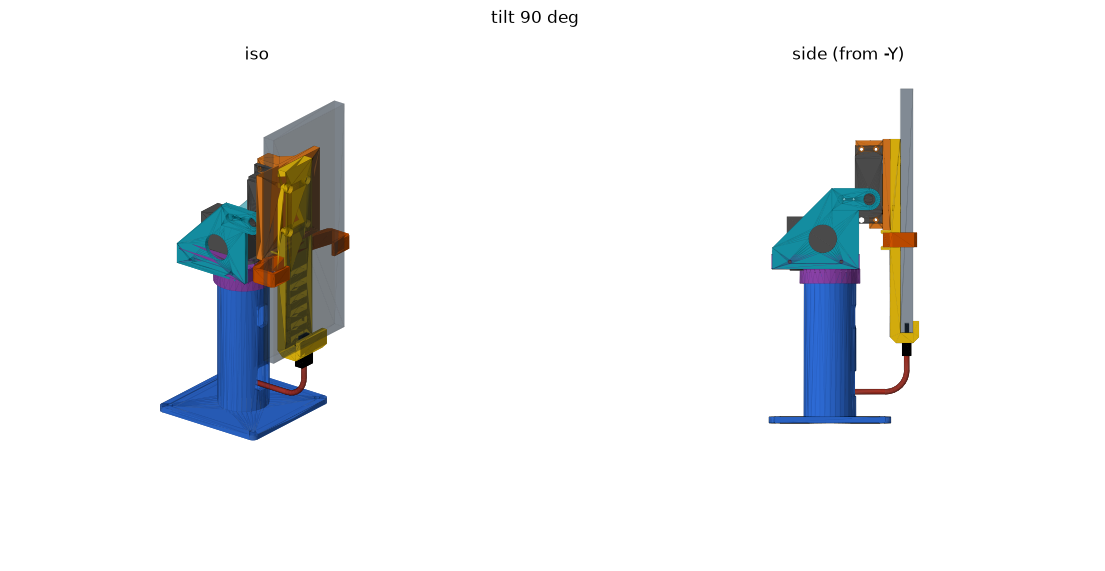
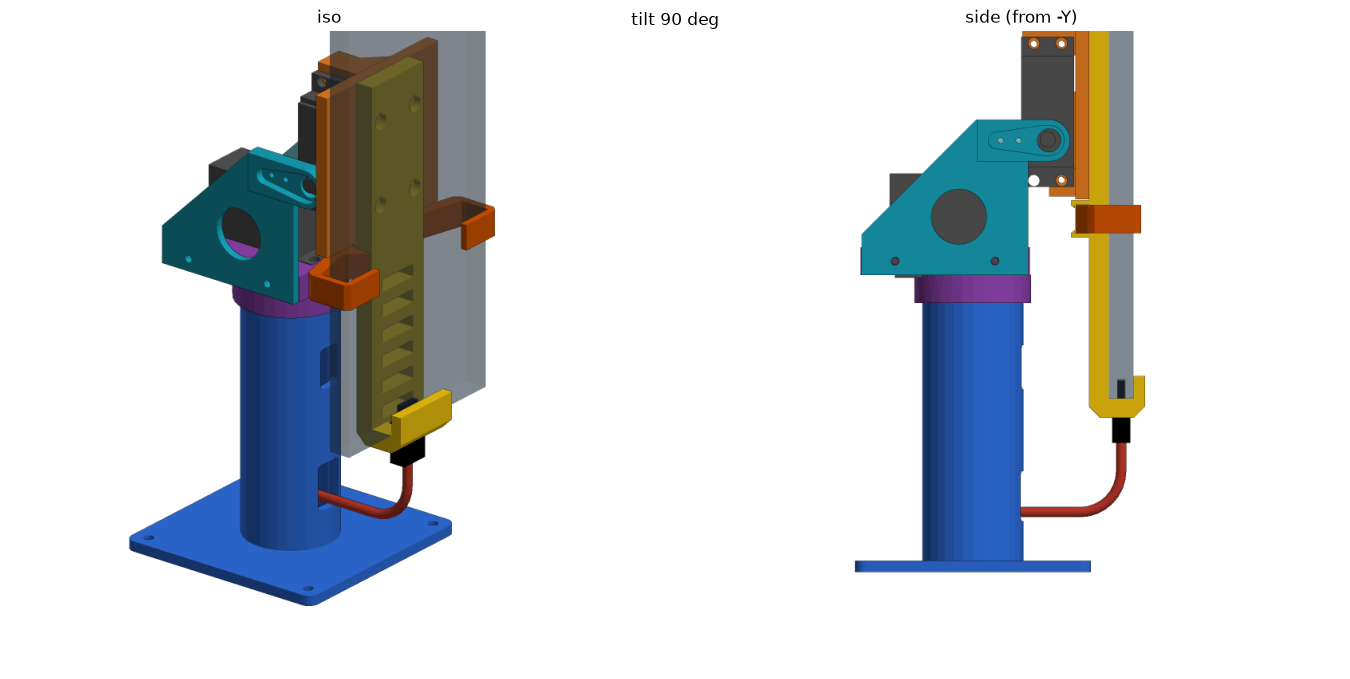
Render the documentation pictures with a z-buffer renderer
The matplotlib 3D painter sorted faces wrongly and let inner parts show through the lid. shots.py now rasterizes the
tessellated parts with its own numpy z-buffer (flat shading, outlines, translucent parts blended last), so the pictures
no longer have see-through artefacts. Pictures regenerated.

Changed region(s): [[0.0923, 0.0298, 0.3692, 0.8932], [0.6154, 0.0, 0.8615, 0.8634], [0.4308, 0.0, 0.5231, 0.0595]]

diff --git a/cadpy/shots.py b/cadpy/shots.py
@@ -1,4 +1,4 @@
-"""Render the documentation pictures into ../docs/img (matplotlib, no GPU needed).
+"""Render the documentation pictures into ../docs/img (numpy software renderer with a z-buffer, no GPU needed).
 
     .venv/bin/python shots.py
 
@@ -16,7 +16,6 @@ import numpy as np
 
 matplotlib.use("Agg")
 import matplotlib.pyplot as plt
-from mpl_toolkits.mplot3d.art3d import Poly3DCollection
 
 from palette import STYLE
 from pantilt import assemble
@@ -29,38 +28,103 @@ CENTRE = np.array([42.5, 42.5, 60.0])     # box centre in world coordinates (box
 
 
 def triangles(parts, alpha):
-    T, C, A = [], [], []
-    for name, sh in parts.items():
+    """Triangles of all parts: vertices (n,3,3), colours (n,3), opacity (n,), part id (n,)."""
+    T, C, A, I = [], [], [], []
+    for pid, (name, sh) in enumerate(parts.items()):
         v, f = sh.tessellate(0.15, 0.4)
         v = np.array([(p.X, p.Y, p.Z) for p in v])
+        f = np.array(f)
+        T.append(v[f])
         col = matplotlib.colors.to_rgb(STYLE.get(name, ("#999999", 1.0))[0])
-        a = alpha.get(name, 1.0)
-        for i, j, k in f:
-            T.append(v[[i, j, k]]); C.append(col); A.append(a)
-    return np.array(T), np.array(C), np.array(A)
+        C.append(np.tile(col, (len(f), 1))); A.append(np.full(len(f), alpha.get(name, 1.0))); I.append(np.full(len(f), pid))
+    return np.concatenate(T), np.concatenate(C), np.concatenate(A), np.concatenate(I)
+
+
+def rasterize(T, C, A, I, elev, azim, mid, radius, size=800, ss=2):
+    """Small software renderer: orthographic camera, z-buffer, flat shading, outlines, translucent parts blended last."""
+    e, a = np.radians(elev), np.radians(azim)
+    cam = np.array([np.cos(e) * np.cos(a), np.cos(e) * np.sin(a), np.sin(e)])
+    right = np.array([-np.sin(a), np.cos(a), 0.0])
+    up = np.array([-np.sin(e) * np.cos(a), -np.sin(e) * np.sin(a), np.cos(e)])
+    n = size * ss
+    scale = n / (2 * radius)
+    P = T - np.asarray(mid)
+    px = P @ right * scale + n / 2
+    py = n / 2 - P @ up * scale
+    pz = P @ cam                                   # larger = closer to the camera
+    nrm = np.cross(T[:, 1] - T[:, 0], T[:, 2] - T[:, 0])
+    nrm /= np.linalg.norm(nrm, axis=1, keepdims=True) + 1e-12
+    light = cam + 0.5 * right + 0.8 * up
+    light /= np.linalg.norm(light)
+    shade = 0.40 + 0.60 * np.abs(nrm @ light)
+    rgb = np.clip(C * shade[:, None], 0, 1)
+
+    zbuf = np.full((n, n), -1e9)
+    img = np.ones((n, n, 3))
+    ids = np.full((n, n), -1, dtype=np.int32)
+
+    def fill(k, blend=None):
+        x = px[k]; y = py[k]; z = pz[k]
+        x0, x1 = int(max(np.floor(x.min()), 0)), int(min(np.ceil(x.max()), n - 1))
+        y0, y1 = int(max(np.floor(y.min()), 0)), int(min(np.ceil(y.max()), n - 1))
+        if x1 < x0 or y1 < y0:
+            return
+        gx, gy = np.meshgrid(np.arange(x0, x1 + 1) + 0.5, np.arange(y0, y1 + 1) + 0.5)
+        d = (y[1] - y[2]) * (x[0] - x[2]) + (x[2] - x[1]) * (y[0] - y[2])
+        if abs(d) < 1e-12:
+            return
+        w0 = ((y[1] - y[2]) * (gx - x[2]) + (x[2] - x[1]) * (gy - y[2])) / d
+        w1 = ((y[2] - y[0]) * (gx - x[2]) + (x[0] - x[2]) * (gy - y[2])) / d
+        w2 = 1 - w0 - w1
+        inside = (w0 >= -1e-6) & (w1 >= -1e-6) & (w2 >= -1e-6)
+        if not inside.any():
+            return
+        zz = w0 * z[0] + w1 * z[1] + w2 * z[2]
+        sl = (slice(y0, y1 + 1), slice(x0, x1 + 1))
+        if blend is None:
+            ok = inside & (zz > zbuf[sl])
+            zbuf[sl][ok] = zz[ok]
+            img[sl][ok] = rgb[k]
+            ids[sl][ok] = I[k]
+        else:
+            ok = inside & (zz > zbuf[sl])          # in front of everything opaque, no depth write
+            img[sl][ok] = img[sl][ok] * (1 - blend) + rgb[k] * blend
+
+    opaque = np.nonzero(A >= 0.999)[0]
+    for k in opaque:
+        fill(k)
+    # outlines from the id buffer and depth jumps (before translucent parts, so glass has no hard edges)
+    edge = np.zeros((n, n), dtype=bool)
+    for dy, dx in ((1, 0), (0, 1)):
+        edge[:-dy or None, :-dx or None] |= ids[:-dy or None, :-dx or None] != ids[dy:, dx:]
+        edge[:-dy or None, :-dx or None] |= np.abs(zbuf[:-dy or None, :-dx or None] - zbuf[dy:, dx:]) > radius * 0.02
+    img[edge] = img[edge] * 0.35
+    glass = np.nonzero(A < 0.999)[0]
+    glass = glass[np.argsort(pz[glass].mean(axis=1))]   # far to near
+    for k in glass:
+        fill(k, blend=A[k])
+    # downsample
+    img = img.reshape(size, ss, size, ss, 3).mean(axis=(1, 3))
+    return np.clip(img, 0, 1)
 
 
 def draw(parts, views, out, mid, radius, alpha=None, title=""):
-    T, C, A = triangles(parts, alpha or {})
+    T, C, A, I = triangles(parts, alpha or {})
+    rx, ry, rz = (radius, radius, radius) if np.isscalar(radius) else radius
+    rad = max(rx, ry, rz)
     cols = 2 if len(views) > 1 else 1
     rows = -(-len(views) // cols)
-    fig = plt.figure(figsize=(7 * cols, 7 * rows), dpi=100)
-    for idx, (caption, elev, azim) in enumerate(views, 1):
-        ax = fig.add_subplot(rows, cols, idx, projection="3d", proj_type="ortho")
-        a = np.radians(azim); e = np.radians(elev)
-        light = np.array([np.cos(e) * np.cos(a - .6), np.cos(e) * np.sin(a - .6), np.sin(e) + .4]); light /= np.linalg.norm(light)
-        n = np.cross(T[:, 1] - T[:, 0], T[:, 2] - T[:, 0]); n /= np.linalg.norm(n, axis=1, keepdims=True) + 1e-12
-        k = 0.45 + 0.55 * np.abs(n @ light)
-        rgba = np.concatenate([np.clip(C * k[:, None], 0, 1), A[:, None]], axis=1)
-        ax.add_collection3d(Poly3DCollection(T, facecolors=rgba, edgecolor=(0, 0, 0, .10), linewidths=.15))
-        rx, ry, rz = (radius, radius, radius) if np.isscalar(radius) else radius
-        ax.set_xlim(mid[0] - rx, mid[0] + rx); ax.set_ylim(mid[1] - ry, mid[1] + ry)
-        ax.set_zlim(mid[2] - rz, mid[2] + rz)
-        ax.set_box_aspect((rx, ry, rz)); ax.view_init(elev, azim); ax.set_axis_off(); ax.set_title(caption)
+    fig, axes = plt.subplots(rows, cols, figsize=(7 * cols, 7 * rows), dpi=100, squeeze=False)
+    for ax in axes.flat:
+        ax.axis("off")
+    for ax, (caption, elev, azim) in zip(axes.flat, views):
+        ax.imshow(rasterize(T, C, A, I, elev, azim, mid, rad))
+        ax.set_title(caption)
     if title:
-        fig.suptitle(title, y=.93)
+        fig.suptitle(title, y=.96)
+    fig.tight_layout()
     fig.savefig(out, bbox_inches="tight"); plt.close(fig)
-    print(out.name, out.stat().st_size // 1024, "KB")
+    print(out.name, out.stat().st_size // 1024, "KB", flush=True)
 
 
 def pick(parts, names):
@@ -71,7 +135,7 @@ if __name__ == "__main__":
     p = assemble(tilt_deg=90, pan_deg=0, cable=True)
     # directions: +X = towards the phone, the rear wall is at -X. azim = -50 looks from the front-left (+X, -Y)
     draw(p, [("front-left (phone side)", 20, -50), ("rear-right (vents and DC jack)", 20, 130)], OUT / "assembly.png",
-         np.array([42.5, 42.5, 62.0]), (80, 80, 130), title="Androsaur stand with the enclosure")
+         np.array([42.5, 42.5, 70.0]), (80, 80, 175), title="Androsaur stand with the enclosure")
     draw(pick(p, ["box_lower", "box_upper", "foot0", "foot1", "foot2", "foot3"]),
          [("rear wall from outside (-X)", 0, 180), ("front, from +X", 0, 0)], OUT / "rear.png",
          np.array([42.5, 42.5, -31.0]), 62, title="Enclosure walls: DC jack and vents at the back")
